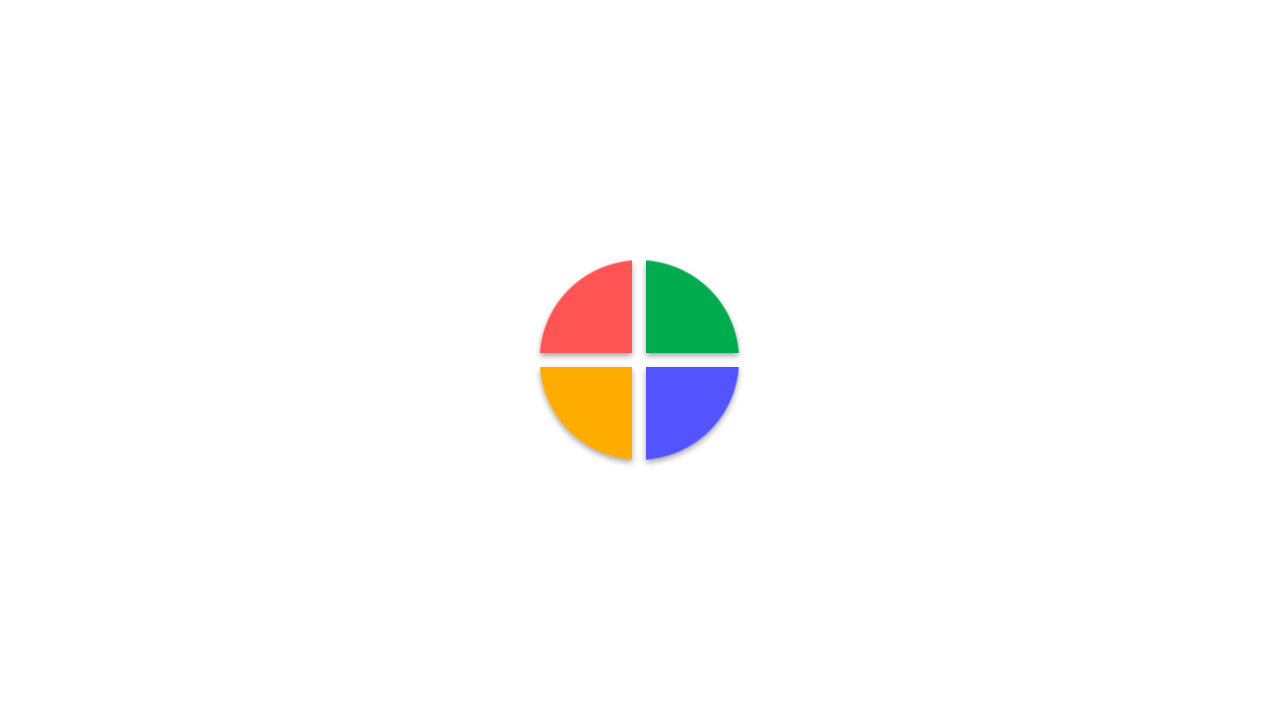
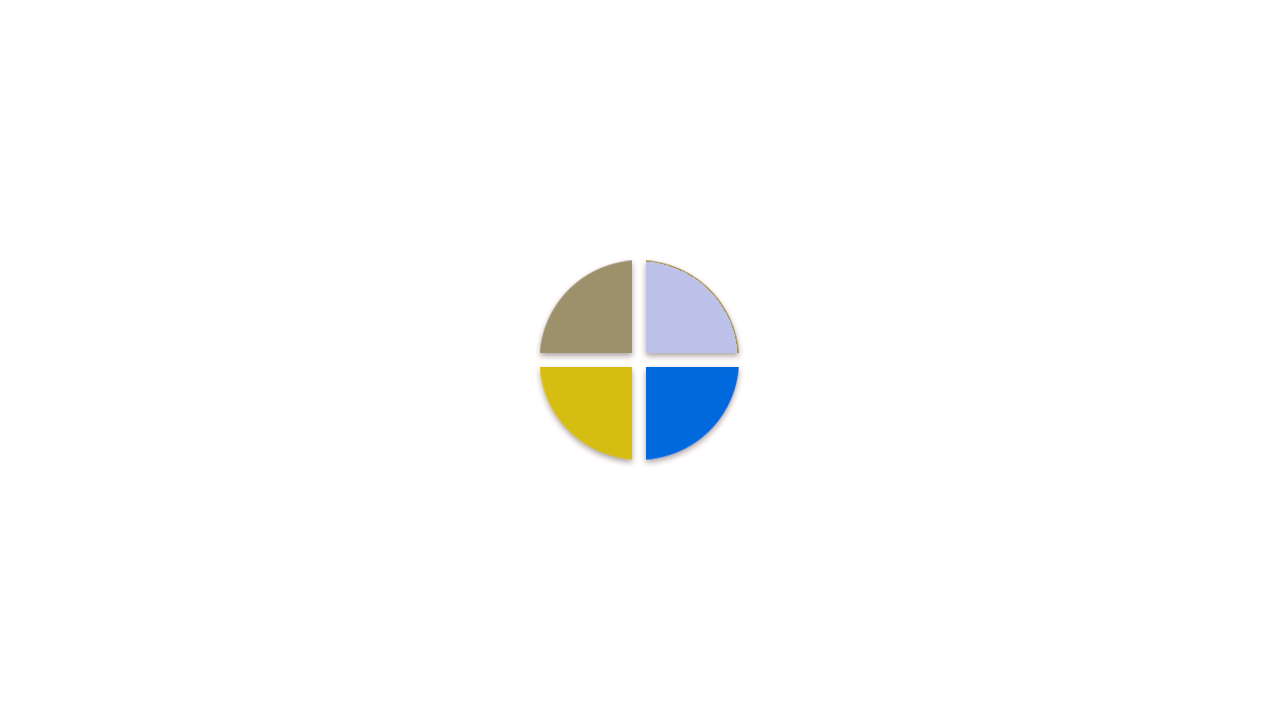
색약 모드

Changed region(s): [[0.4062, 0.3667, 0.5938, 0.6417]]

diff --git a/unogame/src/scene/configuration_scene.py b/unogame/src/scene/configuration_scene.py
@@ -288,19 +288,19 @@ class ConfigurationOverlayScene(OverlayScene):
         )
         self.blind_mode_protanopia = pygame_gui.elements.UIButton(
             relative_rect=pygame.Rect(vp(364, 339), vp(118, 28)),
-            text="Protanopia",
+            text="protanopia",
             container=self.panel,
             manager=self.overlay_manager
         )
         self.blind_mode_tritanopia = pygame_gui.elements.UIButton(
             relative_rect=pygame.Rect(vp(552, 339), vp(109, 28)),
-            text="Tritanopia",
+            text="tritanopia",
             container=self.panel,
             manager=self.overlay_manager
         )
         self.blind_mode_deuteranopia = pygame_gui.elements.UIButton(
             relative_rect=pygame.Rect(vp(734, 339), vp(147, 28)),
-            text="Deuteranopia",
+            text="deuteranopia",
             container=self.panel,
             manager=self.overlay_manager
         )

diff --git a/unogame/src/utils/image_utility.py b/unogame/src/utils/image_utility.py
@@ -5,7 +5,7 @@ from config import configuration
 from utils.resource_path import resource_path
 
 
-def load_image(name: str, colorkey: int = None, directory: str = 'assets/default'):
+def load_image(name: str, colorkey: int = None, directory: str = f'assets/{configuration.get_color_mode()}'):
     fullname = resource_path(os.path.join(directory, name))
     if not os.path.isfile(fullname):
         raise FileNotFoundError("해당하는 파일이 없습니다. '{fullname}'")

diff --git a/unogame/src/config/configuration.py b/unogame/src/config/configuration.py
@@ -17,6 +17,9 @@ BACKGROUND_SOUND_VOLUME = 30
 EFFECT_SOUND_VOLUME = 30
 SOUND_ON = True
 
+
+def get_color_mode():
+    return BLIND_MODE
 def set_whole_sound_volume(v:int):
     global WHOLE_SOUND_VOLUME
     WHOLE_SOUND_VOLUME = v
@@ -166,7 +169,6 @@ def convert_to_current_config(configurations):
 
     except(KeyError):
         print("No Initial config valid.")
-
 
 def convert_keybinding(keybindings):
     global KEYBOARD_MAP

diff --git a/unogame/src/scene/playing_scene.py b/unogame/src/scene/playing_scene.py
@@ -442,7 +442,7 @@ class PlayingScene(Scene):
         self.screen.blit(text, text_turn_rect)
 
     def card_color(self, card_color):
-        print(card_color)
+        # print(card_color)
         pygame.draw.circle(self.screen, (card_color.value.r,card_color.value.g,card_color.value.b), [370, 380], 30)
 
     def draw(self):
